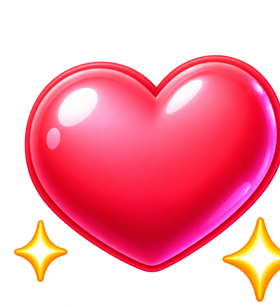
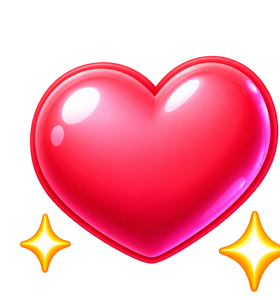
두더지팡: 하트 카드 제목 위치/리본 겹침/하트 크롭 잘림 수정, v579
- 카드 상단 순서를 리본→제목→이미지로 변경(사용자: "하트+1이 박스 상단에 가야하는데")
- 리본을 위로 올려 이미지를 안 가리게(top 12px→5px)
- single-heart.png 크롭 폭이 좁아 하트 우측이 잘리고(사용자: "쥐파먹었네") 반대로 너무
  넓히면 옆 영상아이콘 조각이 노이즈로 섞이던 것 — 폭을 다시 재봐서(860px) 하트 전체가
  들어가면서도 옆 요소는 안 섞이는 지점으로 재크롭

Changed region(s): [[0.0286, 0.15, 1.0, 0.99], [0.5714, 0.33, 0.6, 0.39], [0.6, 0.3, 0.6286, 0.33]]

diff --git a/mole/style.css b/mole/style.css
@@ -2907,13 +2907,14 @@ body { background: var(--lm-page); }
 .shop-card--rich { padding: 6px 6px 8px; gap: 3px; }
 /* 사용자 지정: 제목도 한 줄로(줄바꿈 없이 폭에 맞춰 글자 축소) — 기본 .shop-card-name(다른
    카드 공용)보다 작게. */
-.shop-card--rich .shop-card-name { font-size: 0.6rem; min-height: 1.2em; white-space: nowrap; }
+/* margin-top — 리본(대각선, 카드 상단을 가로지름)과 안 겹치게 제목을 그 아래로. */
+.shop-card--rich .shop-card-name { font-size: 0.6rem; min-height: 1.2em; white-space: nowrap; margin-top: 24px; }
 .shop-card--pink { background: linear-gradient(180deg, #fff5f7, #ffe1e9); border-color: #ffb3c6; }
 .shop-card--blue { background: linear-gradient(180deg, #f0f9ff, #dcefff); border-color: #9dcdff; }
 /* 리본 — 카드 좌상단 모서리를 가로지르는 대각선 띠(사용자 지정: "반시계방향으로 45도
    회전시키고, 외각선까지 올려서" — 카드 테두리선 위에 걸치도록). 폭을 넉넉히 잡아 모서리
    양쪽으로 걸치게 하고 회전. */
-.shop-card-ribbon { position: absolute; left: -34px; top: 12px; z-index: 3; width: 130px;
+.shop-card-ribbon { position: absolute; left: -34px; top: 5px; z-index: 3; width: 130px;
   display: flex; align-items: center; justify-content: center; gap: 3px;
   padding: 3px 0; border-radius: 2px; font-size: 0.56rem; font-weight: 800; color: #fff;
   box-shadow: 0 2px 4px rgba(0,0,0,0.25); white-space: nowrap;

diff --git a/mole/index.html b/mole/index.html
@@ -540,7 +540,7 @@
       <div id="lane-button-bar">
         <!-- 배포 버전 표식(스크린샷으로 어느 버전인지 확인용) — 화면 좌하단에 두면 다른 UI에
              가려 잘 안 보인다는 사용자 지적으로, 하트 아이콘(다이얼패드 1번 칸) 바로 위로 이동. -->
-        <div id="build-tag" aria-hidden="true">v578</div>
+        <div id="build-tag" aria-hidden="true">v579</div>
       </div>
       <div id="invincible-countdown" class="invincible-countdown" aria-hidden="true" hidden></div>
     </div>
@@ -702,7 +702,7 @@
       } else {
         // ?v= 로 매 배포마다 URL을 바꿔서 GitHub Pages의 sw.js 캐시(max-age=600)를 무조건 우회 —
         // 안 그러면 배포 직후에도 최대 10분간 옛 서비스워커가 안 갈리는 경우가 있었음(사용자 보고).
-        navigator.serviceWorker.register('sw.js?v=578').catch(function () {});
+        navigator.serviceWorker.register('sw.js?v=579').catch(function () {});
       }
     });
   }

diff --git a/mole/js/shop.js b/mole/js/shop.js
@@ -172,8 +172,8 @@
       c.innerHTML =
         '<div class="shop-card-ribbon shop-card-ribbon--' + o.ribbonTheme + '">' +
           '<span class="shop-card-ribbon-ico"></span><span class="shop-card-ribbon-txt"></span></div>' +
-        '<div class="shop-card-badge shop-card-badge--hero"></div>' +
         '<div class="shop-card-name"></div>' +
+        '<div class="shop-card-badge shop-card-badge--hero"></div>' +
         '<div class="shop-card-desc"></div>' +
         '<div class="shop-card-pill">' + ICONS.hearts + '<span></span></div>' +
         '<button type="button" class="' + btnClass + '"' + (o.btnDisabled ? ' disabled' : '') + '></button>';

diff --git a/mole/sw.js b/mole/sw.js
@@ -3,7 +3,7 @@
 // 폴백 전용으로만 갱신한다. (예전엔 stale-while-revalidate라 배포해도 "다음 실행"에야
 // 반영돼 사용자 체감 대기가 길었음 — 온라인=항상 최신, 오프라인=마지막 캐시로 변경.)
 // SHELL 목록 자체가 바뀔 때만 CACHE 를 올린다.
-const CACHE = 'mole-game-v578';
+const CACHE = 'mole-game-v579';
 
 // 화면별 BGM(audio/bgm-*.mp3)은 v275 부터 SHELL 에 포함 — 기본 켜짐(v272)이라 항상 필요하고,
 // 캐시가 안 돼 있으면 오프라인/느린망에서 재생 실패했음.
